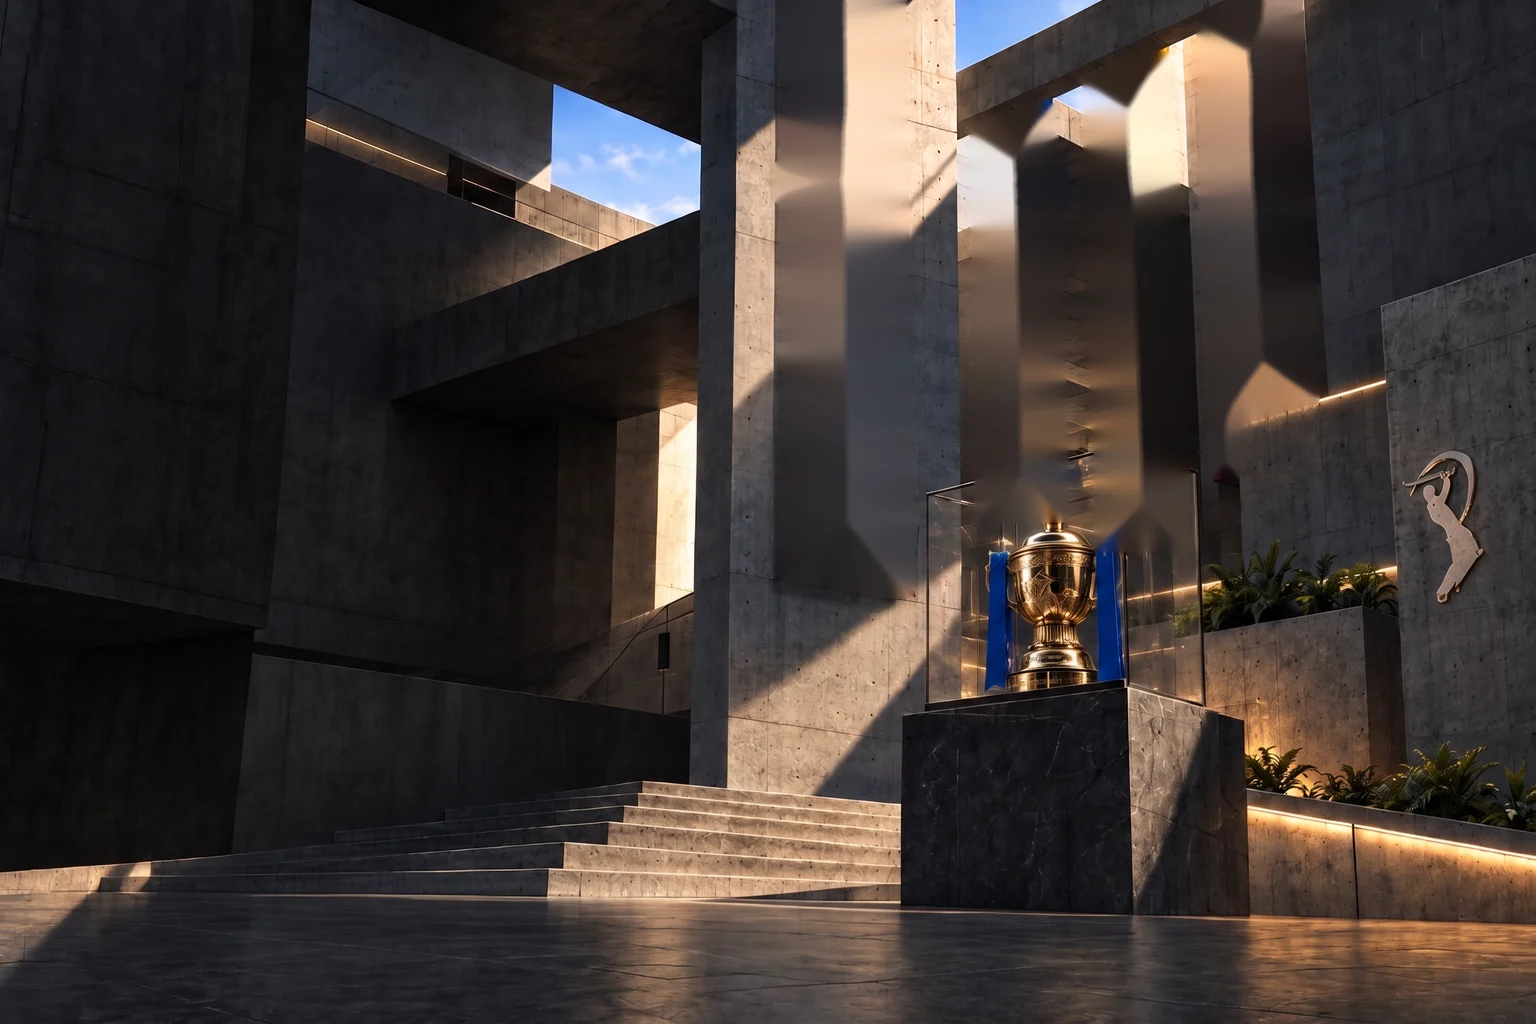
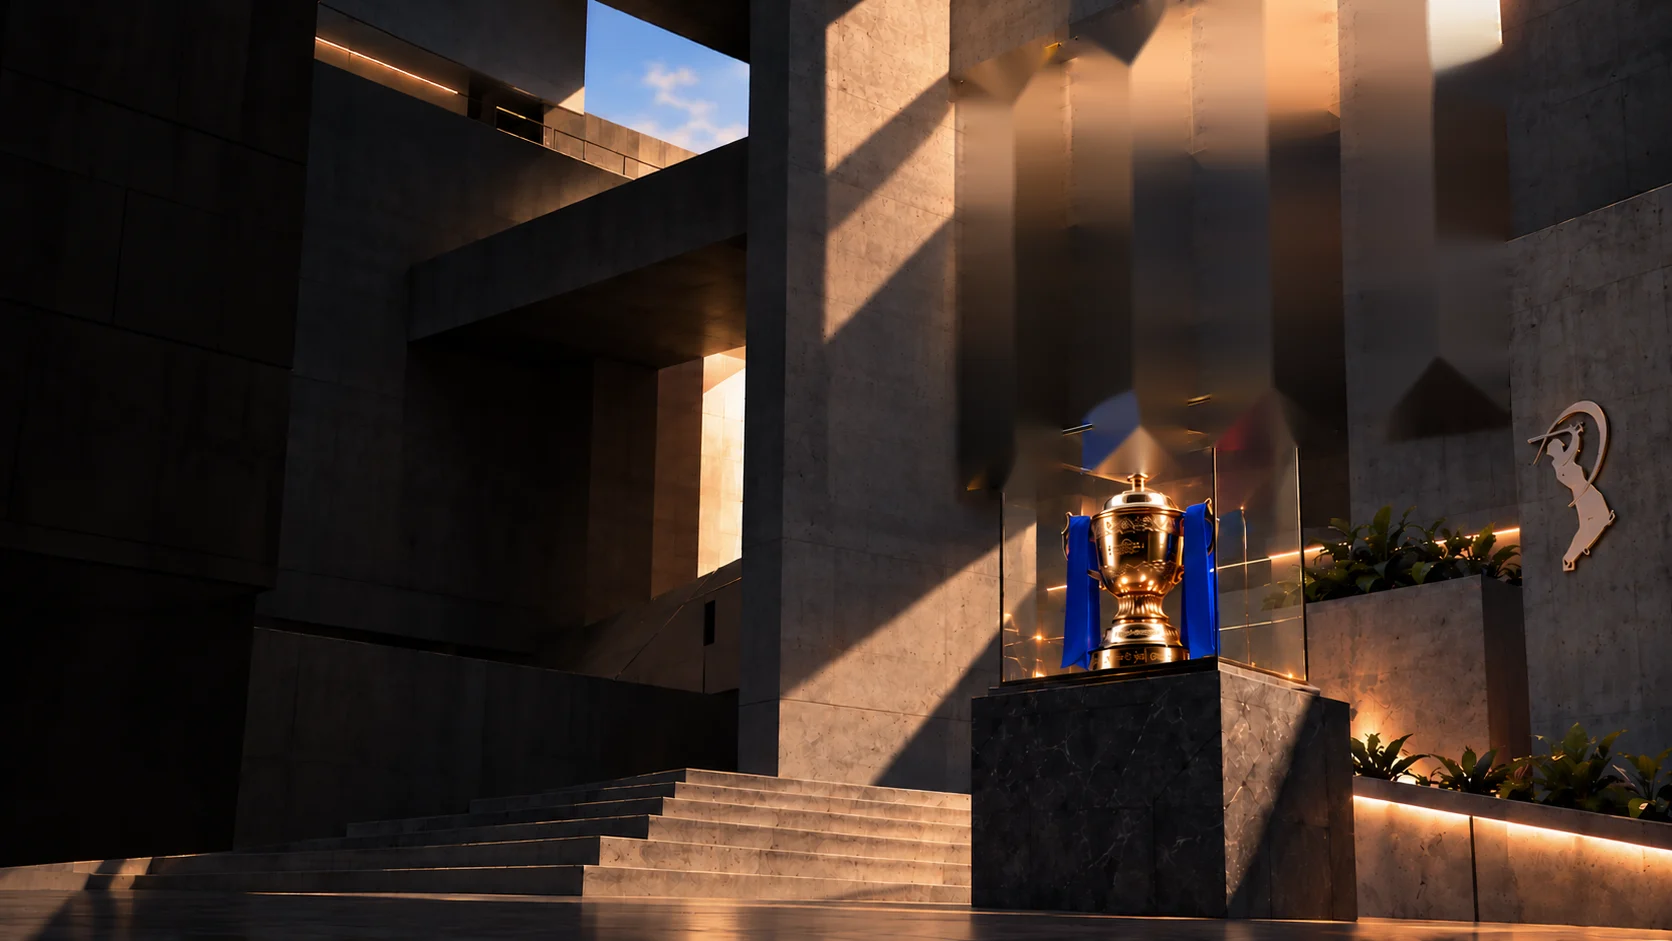
landing scene: cut from the updated flags art
The cloths come in the right order with their emblems, so the re-dye and
emblem prints go; SRH's eagle is painted out and the detailed one printed
back on. The frame is 16:9 now, and the wall-front layer is gone since SRH
hangs free.

diff --git a/src/components/ui/landing-scene.tsx b/src/components/ui/landing-scene.tsx
@@ -5,9 +5,9 @@ import layout from '../../../public/assets/landing/layers/layers.json'
 
 /**
  * Landing backdrop: the Figma courtyard cut into parts by
- * scripts/landing_layers.py (boxes in layers.json, image px of 1536x1024).
- *   banners  sway from their top edge (cut whole, through the glass; case-lines and
- *            wall-front redraw what stands in front of them, so those stay put);
+ * scripts/landing_layers.py (boxes in layers.json, image px of 1672x941).
+ *   banners  sway from their top edge (cut whole, through the glass; case-lines
+ *            redraws the case frame in front of them, so it stays put);
  *            a soft light band rolls down the cloth
  *   sky      clouds drift
  *   trophy   a light glint sweeps across the gold
@@ -18,9 +18,9 @@ import layout from '../../../public/assets/landing/layers/layers.json'
  * desktop) so the IPL logo on the wall stays in view; nothing follows the cursor.
  * Every animation is motion-safe: reduced motion gets the still image.
  */
-const W = 1536
-const H = 1024
-const COVER_W = 'max(100vw, 150vh)' // object-cover for a 3:2 image
+const W = 1672
+const H = 941
+const COVER_W = `max(100vw, ${(100 * W) / H}vh)` // object-cover for the image
 const L = '/assets/landing/layers'
 
 type Box = readonly number[]
@@ -37,29 +37,17 @@ const masked = (file: string): CSSProperties => ({
   WebkitMaskSize: '100% 100%',
 })
 
-// the art's emblems came out doubled or on the wrong cloth, so every cloth but MI's is cut
-// plain and re-dyed, and `print` puts the team's emblem back on (box in % of the banner;
-// dark ink multiplies into the cloth, RCB's is lifted from the original art in its own
-// colour); it sways with the cloth, under the sheen
-const BANNERS = [
-  {
-    name: 'csk',
-    box: layout['banner-csk'],
-    anim: 'motion-safe:animate-[scene-banner-sway_6.1s_ease-in-out_-1.7s_infinite]',
-    print: { left: '8%', top: '33%', width: '84%', className: 'opacity-75 mix-blend-multiply' },
-  },
+// SRH's cloth is cut plain and its detailed eagle printed on (dark ink multiplied into the
+// cloth, box in % of the banner); it sways with the cloth, under the sheen
+const BANNERS: { name: string; box: Box; anim: string; print?: CSSProperties }[] = [
+  { name: 'csk', box: layout['banner-csk'], anim: 'motion-safe:animate-[scene-banner-sway_6.1s_ease-in-out_-1.7s_infinite]' },
   { name: 'mi', box: layout['banner-mi'], anim: 'motion-safe:animate-[scene-banner-sway_5.2s_ease-in-out_infinite]' },
-  {
-    name: 'rcb',
-    box: layout['banner-rcb'],
-    anim: 'motion-safe:animate-[scene-banner-sway_5.7s_ease-in-out_-3.1s_infinite]',
-    print: { left: '23%', top: '27%', width: '54%', className: 'opacity-90' },
-  },
+  { name: 'rcb', box: layout['banner-rcb'], anim: 'motion-safe:animate-[scene-banner-sway_5.7s_ease-in-out_-3.1s_infinite]' },
   {
     name: 'srh',
     box: layout['banner-srh'],
     anim: 'motion-safe:animate-[scene-banner-sway_6.4s_ease-in-out_-0.8s_infinite]',
-    print: { left: '6%', top: '33%', width: '88%', className: 'opacity-75 mix-blend-multiply' },
+    print: { left: '4%', top: '26%', width: '92%' },
   },
 ]
 
@@ -80,11 +68,11 @@ export function LandingScene() {
       </svg>
 
       <div
-        className="absolute aspect-[3/2] origin-[90%_45%] motion-safe:animate-[scene-breathe_28s_ease-in-out_infinite]"
+        className="absolute aspect-[1672/941] origin-[90%_45%] motion-safe:animate-[scene-breathe_28s_ease-in-out_infinite]"
         style={{
           width: COVER_W,
           left: `calc((100vw - ${COVER_W}) * var(--px))`,
-          top: `calc((100vh - ${COVER_W} / 1.5) / 2)`,
+          top: `calc((100vh - ${COVER_W} * ${H / W}) / 2)`,
         }}
       >
         {/* eslint-disable-next-line @next/next/no-img-element */}
@@ -102,12 +90,7 @@ export function LandingScene() {
             <img src={`${L}/banner-${b.name}.webp`} alt="" className="absolute inset-0 h-full w-full" />
             {b.print && (
               // eslint-disable-next-line @next/next/no-img-element
-              <img
-                src={`${L}/print-${b.name}.webp`}
-                alt=""
-                className={`absolute h-auto ${b.print.className}`}
-                style={{ left: b.print.left, top: b.print.top, width: b.print.width }}
-              />
+              <img src={`${L}/print-${b.name}.webp`} alt="" className="absolute h-auto opacity-90 mix-blend-multiply" style={b.print} />
             )}
             {/* light rolling down the folds, clipped to the cloth */}
             <div
@@ -119,8 +102,6 @@ export function LandingScene() {
 
         {/* eslint-disable-next-line @next/next/no-img-element */}
         <img src={`${L}/case-lines.webp`} alt="" className="absolute" style={box(layout['case-lines'])} />
-        {/* eslint-disable-next-line @next/next/no-img-element */}
-        <img src={`${L}/wall-front.webp`} alt="" className="absolute" style={box(layout['wall-front'])} />
 
         {/* eslint-disable-next-line @next/next/no-img-element */}
         <img
@@ -161,8 +142,8 @@ function Dust() {
     const ctx = canvas.getContext('2d')
     if (!ctx) return
     let light: Uint8ClampedArray | null = null
-    const MW = 768
-    const MH = 512
+    const MW = 836
+    const MH = 470
     const img = new Image()
     img.src = `${L}/sun-mask.png`
     img.onload = () => {

diff --git a/scripts/landing_layers.py b/scripts/landing_layers.py
@@ -1,11 +1,9 @@
 """Cuts the Figma courtyard image into animatable landing-page layers.
 
-Run:  python scripts/landing_layers.py blender/assets/figma-scene-4bay.png
+Run:  python scripts/landing_layers.py blender/assets/figma-scene-flags.png
 
-The source is the Figma courtyard with a fourth banner (on the big pillar) added by an AI
-image edit. Its cloths hang in the wrong team order and carry doubled emblems, so each is
-cut, its emblem painted out, and its cloth re-dyed (light and folds kept, hue swapped) to
-the order CSK, MI, RCB, SRH; the page prints the emblems back on.
+The source is the Figma courtyard with four banners, CSK, MI, RCB, SRH, emblems already on.
+SRH's eagle is painted out; the page prints the detailed one (print-srh.webp) back on.
 
 Writes public/assets/landing/layers/:
   bg.webp                 the scene with the banners painted out (edges only
@@ -14,11 +12,10 @@ Writes public/assets/landing/layers/:
                           layers.json
   plants.webp             both planters' foliage (sways in place, no cut needed)
   case-lines.webp         the glass case's frame where it crosses the cloth (sits on top)
-  wall-front.webp         the concrete block in front of the SRH banner (sits on top)
   sky-mask.png            where clouds drift
   trophy-mask.png         gold of the trophy, for the light glint
   sun-mask.png            sunlit areas, for the light breathing + dust
-  layers.json             boxes for everything above, in image px (1536x1024)
+  layers.json             boxes for everything above, in image px (1672x941)
 """
 import json
 import os
@@ -42,8 +39,11 @@ def in_box(m, x0, y0, x1, y1):
 
 
 def case_top(x):
-    """Top edge of the glass case (front pane then side pane): banners hang behind it."""
-    return 492 - 0.2344 * (x - 926) if x <= 1118 else 445 + (25 / 77) * (x - 1118)
+    """Top edge of the glass case (front pane then side pane): banners hang behind it.
+    Off either side of the case nothing is in front, so the edge is the image bottom."""
+    if x < 1000 or x > 1297:
+        return 941
+    return 447 - (54 / 213) * (x - 1000) if x <= 1213 else 393 + (35 / 84) * (x - 1213)
 
 
 def fill_holes(m):
@@ -117,46 +117,24 @@ def main(src):
     os.makedirs(OUT, exist_ok=True)
     layout = {}
 
-    # keyed by the team each cloth becomes; the colour test finds the cloth as generated
     banners = {
-        'csk': banner_mask(as_mask((hue > 4) & (hue < 20) & vivid), (770, 0, 930, 610), extend_to_top=True, behind_case=False),
-        'mi': banner_mask(as_mask((hue > 100) & (hue < 130) & vivid), (940, 60, 1080, 500), through_glass_to=520),
-        'rcb': banner_mask(as_mask((hue > 12) & (hue < 35) & vivid & (sat > 150)), (1070, 30, 1195, 470), through_glass_to=550),
-        'srh': banner_mask(as_mask(((hue < 10) | (hue > 160)) & vivid), (1185, 0, 1320, 490), extend_to_top=True, behind_case=False),
+        'csk': banner_mask(as_mask((hue > 15) & (hue < 32) & vivid & (sat > 150)), (955, 30, 1072, 500), through_glass_to=490),
+        'mi': banner_mask(as_mask((hue > 100) & (hue < 130) & vivid), (1072, 0, 1195, 500), extend_to_top=True, through_glass_to=470),
+        'rcb': banner_mask(as_mask(((hue < 8) | (hue > 160)) & vivid), (1198, 0, 1340, 460), extend_to_top=True, through_glass_to=445),
+        'srh': banner_mask(as_mask((hue >= 5) & (hue <= 18) & vivid & (sat > 150)), (1315, 0, 1545, 445), extend_to_top=True, behind_case=False),
     }
-    # each team's dye (median hue, saturation, value) read off the cloth that has it as generated
-    dye = {}
-    for team, src in (('csk', 'rcb'), ('rcb', 'srh'), ('srh', 'csk')):  # yellow, red, orange cloths
-        m = banners[src] > 0
-        dye[team] = [np.median(hsv[..., c][m]) for c in range(3)]
 
-    # paint out the generated emblems (all but MI's), staying clear of the cloth's edges
+    # paint out SRH's generated eagle (dark ink), staying clear of the cloth's edges
     gray = cv2.cvtColor(im, cv2.COLOR_BGR2GRAY)
-    k = cv2.getStructuringElement(cv2.MORPH_ELLIPSE, (17, 17))
-    emblems = {
-        'csk': in_box(cv2.morphologyEx(gray, cv2.MORPH_BLACKHAT, k), 790, 200, 910, 350),  # eagle, dark ink
-        'rcb': in_box(cv2.morphologyEx(gray, cv2.MORPH_BLACKHAT, k), 1085, 190, 1185, 345),  # lion, dark ink
-        'srh': in_box(cv2.morphologyEx(gray, cv2.MORPH_TOPHAT, k), 1205, 165, 1295, 335),  # crowned lion, pale
-    }
-    cloth = im.copy()
-    for name, ink in emblems.items():
-        inner = cv2.erode(banners[name], np.ones((1, 15), np.uint8))
-        ink = cv2.dilate(np.where(ink > 18, 255, 0).astype(np.uint8), np.ones((5, 5), np.uint8)) & inner
-        cloth = cv2.inpaint(cloth, ink, 9, cv2.INPAINT_TELEA)
+    ink = in_box(cv2.morphologyEx(gray, cv2.MORPH_BLACKHAT, cv2.getStructuringElement(cv2.MORPH_ELLIPSE, (17, 17))), 1368, 85, 1502, 270)
+    ink = cv2.dilate(np.where(ink > 10, 255, 0).astype(np.uint8), np.ones((9, 9), np.uint8))
+    cloth = cv2.inpaint(im, ink & cv2.erode(banners['srh'], np.ones((1, 15), np.uint8)), 9, cv2.INPAINT_TELEA)
 
     for name, m in banners.items():
-        out = cloth
-        if name in dye:  # re-dye: keep the cloth's light and folds (relative S and V), take the new dye
-            h = cv2.cvtColor(cloth, cv2.COLOR_BGR2HSV).astype(float)
-            h[..., 0] = dye[name][0]
-            for c in (1, 2):
-                h[..., c] *= dye[name][c] / max(np.median(h[..., c][m > 0]), 1)
-            out = cv2.cvtColor(np.clip(h, 0, 255).astype(np.uint8), cv2.COLOR_HSV2BGR)
         # pull the sides 2px inside the cloth so the soft edge carries no wall colour when it moves
         m = cv2.erode(m, np.ones((1, 5), np.uint8))
-        # behind the glass the cloth melts away; the pillar cloth hangs free and SRH's bottom
-        # is hidden by wall-front instead
-        rgba, box = rgba_crop(out, m if name in ('csk', 'srh') else fade_bottom(m, 45))
+        # behind the glass the cloth melts away; SRH hangs free of the case
+        rgba, box = rgba_crop(cloth, m if name == 'srh' else fade_bottom(m, 45))
         cv2.imwrite(os.path.join(OUT, f'banner-{name}.webp'), rgba, [cv2.IMWRITE_WEBP_QUALITY, 90])
         layout[f'banner-{name}'] = box
 
@@ -170,7 +148,7 @@ def main(src):
     k = cv2.getStructuringElement(cv2.MORPH_RECT, (7, 7))
     thin = np.maximum(cv2.morphologyEx(gray, cv2.MORPH_TOPHAT, k), cv2.morphologyEx(gray, cv2.MORPH_BLACKHAT, k))
     glass = np.zeros_like(gray)
-    for x in range(926, glass.shape[1]):  # the case starts at x=926; the pillar cloth left of it hangs free
+    for x in range(1000, 1298):  # the case spans x=1000..1297
         glass[int(case_top(x)) - 6:600, x] = 255
     lines = np.where((thin > 22) & (glass > 0) & (cv2.dilate(behind, np.ones((9, 9), np.uint8)) > 0), 255, 0).astype(np.uint8)
     lines = cv2.morphologyEx(lines, cv2.MORPH_OPEN, np.ones((2, 2), np.uint8))
@@ -178,29 +156,20 @@ def main(src):
     rgba, layout['case-lines'] = rgba_crop(im, lines, feather=0.8)
     cv2.imwrite(os.path.join(OUT, 'case-lines.webp'), rgba, [cv2.IMWRITE_WEBP_QUALITY, 92])
 
-    # the concrete block (and its lit ledge) in front of the SRH banner's lower half, also on top
-    ledge = lambda x: 423 - 0.29 * (x - 1234) - 1  # noqa: E731  1px above the light strip (higher picks up cloth)
-    edge = lambda y: 1238 + (y - 450) * 3 / 70  # noqa: E731  just inside the block's left face
-    block = np.array([[edge(ledge(edge(400))), ledge(edge(400))], [1345, ledge(1345)], [1345, 510], [edge(510), 510]], np.int32)
-    front = np.zeros_like(gray)
-    cv2.fillPoly(front, [block], 255)
-    rgba, layout['wall-front'] = rgba_crop(im, front, feather=0.6)
-    cv2.imwrite(os.path.join(OUT, 'wall-front.webp'), rgba, [cv2.IMWRITE_WEBP_QUALITY, 92])
-
     green = as_mask((hue > 25) & (hue < 100) & (sat > 30) & (val > 12))  # foliage is mostly in shadow
-    plants = np.maximum(in_box(green, 1160, 520, 1400, 625), in_box(green, 1230, 720, 1536, 850))
+    plants = np.maximum(in_box(green, 1290, 500, 1525, 595), in_box(green, 1340, 715, 1672, 800))
     plants = cv2.morphologyEx(plants, cv2.MORPH_CLOSE, np.ones((9, 9), np.uint8))
     rgba, layout['plants'] = rgba_crop(im, plants, feather=0.8)
     cv2.imwrite(os.path.join(OUT, 'plants.webp'), rgba, [cv2.IMWRITE_WEBP_QUALITY, 90])
 
     sky = as_mask((hue > 95) & (hue < 130) & (sat > 35) & (val > 140))
-    sky = np.maximum(in_box(sky, 540, 60, 720, 230), in_box(sky, 1040, 0, 1090, 100))
+    sky = in_box(sky, 560, 0, 770, 170)
     sky = cv2.morphologyEx(sky, cv2.MORPH_CLOSE, np.ones((9, 9), np.uint8))
     x, y, w, h = cv2.boundingRect(sky)
     save_mask('sky-mask.png', soft_mask(sky, 2)[y:y + h, x:x + w])
     layout['sky'] = [x, y, w, h]
 
-    gold = in_box(as_mask((hue > 8) & (hue < 32) & (sat > 70) & (val > 90)), 975, 500, 1135, 695)
+    gold = in_box(as_mask((hue > 8) & (hue < 32) & (sat > 70) & (val > 90)), 1060, 450, 1190, 670)
     ellipse = cv2.getStructuringElement(cv2.MORPH_ELLIPSE, (9, 9))
     gold = largest(cv2.morphologyEx(gold, cv2.MORPH_CLOSE, ellipse))
     gold = cv2.morphologyEx(fill_holes(gold), cv2.MORPH_OPEN, ellipse)  # blocky holes showed as patches in the glint
@@ -211,7 +180,7 @@ def main(src):
     # sunlit areas: bright at a coarse scale, so it follows the light shafts not texture
     lum = cv2.GaussianBlur(cv2.cvtColor(im, cv2.COLOR_BGR2GRAY), (0, 0), 12)
     sun = np.clip((lum.astype(float) - 120) * 3, 0, 255).astype(np.uint8)
-    save_mask('sun-mask.png', cv2.resize(sun, (768, 512), interpolation=cv2.INTER_AREA))
+    save_mask('sun-mask.png', cv2.resize(sun, (836, 470), interpolation=cv2.INTER_AREA))
 
     with open(os.path.join(OUT, 'layers.json'), 'w') as f:
         json.dump(layout, f, indent=2)
